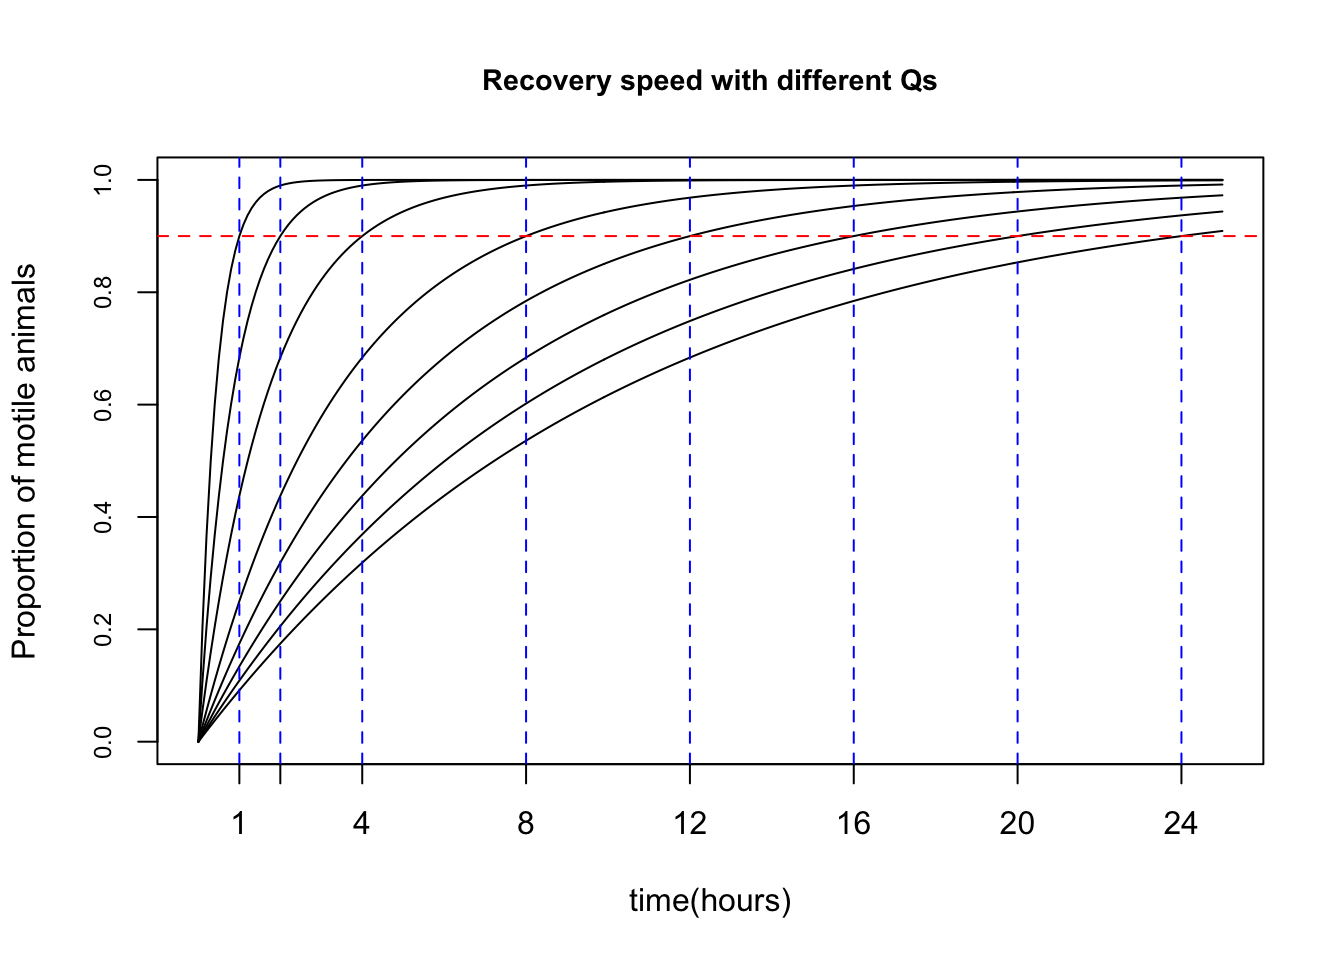
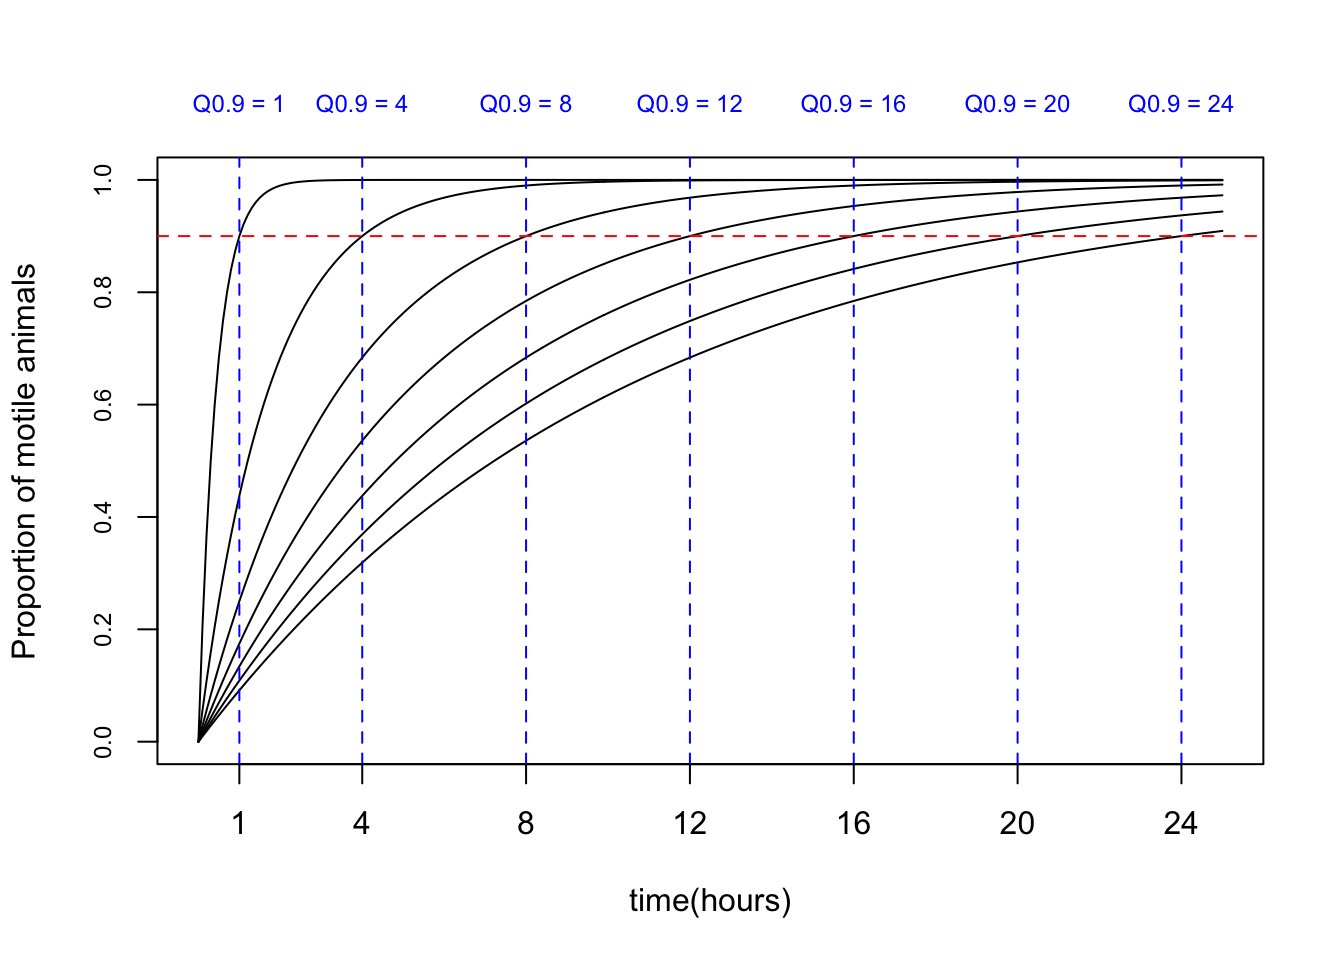
Changed part 1

diff --git a/docs/1.Anhydrobiosis_Index.html b/docs/1.Anhydrobiosis_Index.html
@@ -11,7 +11,7 @@
 
 <meta name="author" content="Matteo Vecchi" />
 
-<meta name="date" content="2022-04-28" />
+<meta name="date" content="2022-04-29" />
 
 <title>Anhydrobiosis Index</title>
 
@@ -390,7 +390,7 @@ div.tocify {
 
 <h1 class="title toc-ignore">Anhydrobiosis Index</h1>
 <h4 class="author">Matteo Vecchi</h4>
-<h4 class="date">2022-04-28</h4>
+<h4 class="date">2022-04-29</h4>
 
 </div>
 
@@ -398,7 +398,7 @@ div.tocify {
 <p>
 <button type="button" class="btn btn-default btn-workflowr btn-workflowr-report" data-toggle="collapse" data-target="#workflowr-report">
 <span class="glyphicon glyphicon-list" aria-hidden="true"></span>
-workflowr <span class="glyphicon glyphicon-ok text-success"
+workflowr <span class="glyphicon glyphicon-exclamation-sign text-danger"
 aria-hidden="true"></span>
 </button>
 </p>
@@ -409,8 +409,8 @@ aria-hidden="true"></span>
 </li>
 <li>
 <a data-toggle="tab" href="#checks"> Checks <span
-class="glyphicon glyphicon-ok text-success" aria-hidden="true"></span>
-</a>
+class="glyphicon glyphicon-exclamation-sign text-danger"
+aria-hidden="true"></span> </a>
 </li>
 <li>
 <a data-toggle="tab" href="#versions">Past versions</a>
@@ -419,13 +419,13 @@ class="glyphicon glyphicon-ok text-success" aria-hidden="true"></span>
 <div class="tab-content">
 <div id="summary" class="tab-pane fade in active">
 <p>
-<strong>Last updated:</strong> 2022-04-28
+<strong>Last updated:</strong> 2022-04-29
 </p>
 <p>
 <strong>Checks:</strong> <span
-class="glyphicon glyphicon-ok text-success" aria-hidden="true"></span> 7
+class="glyphicon glyphicon-ok text-success" aria-hidden="true"></span> 6
 <span class="glyphicon glyphicon-exclamation-sign text-danger"
-aria-hidden="true"></span> 0
+aria-hidden="true"></span> 1
 </p>
 <p>
 <strong>Knit directory:</strong> <code>Anhydrobiosis_index/</code> <span
@@ -448,18 +448,21 @@ versions</em> tab lists the development history.
 <div class="panel panel-default">
 <div class="panel-heading">
 <p class="panel-title">
-<a data-toggle="collapse" data-parent="#workflowr-checks" href="#strongRMarkdownfilestronguptodate">
-<span class="glyphicon glyphicon-ok text-success"
-aria-hidden="true"></span> <strong>R Markdown file:</strong> up-to-date
-</a>
+<a data-toggle="collapse" data-parent="#workflowr-checks" href="#strongRMarkdownfilestronguncommittedchanges">
+<span class="glyphicon glyphicon-exclamation-sign text-danger"
+aria-hidden="true"></span> <strong>R Markdown file:</strong> uncommitted
+changes </a>
 </p>
 </div>
-<div id="strongRMarkdownfilestronguptodate"
+<div id="strongRMarkdownfilestronguncommittedchanges"
 class="panel-collapse collapse">
 <div class="panel-body">
-<p>Great! Since the R Markdown file has been committed to the Git
-repository, you know the exact version of the code that produced these
-results.</p>
+<p>The R Markdown file has unstaged changes. To know which version of
+the R Markdown file created these results, you’ll want to first commit
+it to the Git repo. If you’re still working on the analysis, you can
+ignore this warning. When you’re finished, you can run
+<code>wflow_publish</code> to commit the R Markdown file and build the
+HTML.</p>
 </div>
 </div>
 </div>
@@ -550,15 +553,15 @@ project makes it easier to run your code on other machines.</p>
 <div class="panel panel-default">
 <div class="panel-heading">
 <p class="panel-title">
-<a data-toggle="collapse" data-parent="#workflowr-checks" href="#strongRepositoryversionstrongahrefhttpsgithubcomtardipedeanhydoindextree7675a6f5826bf7f0a507f88d3e2199276746e06dtargetblank7675a6fa">
+<a data-toggle="collapse" data-parent="#workflowr-checks" href="#strongRepositoryversionstrongahrefhttpsgithubcomtardipedeanhydoindextree78cf71bab071af0d82ca66eba1b3884bc144094ctargetblank78cf71ba">
 <span class="glyphicon glyphicon-ok text-success"
 aria-hidden="true"></span> <strong>Repository version:</strong>
-<a href="https://github.com/tardipede/anhydoindex/tree/7675a6f5826bf7f0a507f88d3e2199276746e06d" target="_blank">7675a6f</a>
+<a href="https://github.com/tardipede/anhydoindex/tree/78cf71bab071af0d82ca66eba1b3884bc144094c" target="_blank">78cf71b</a>
 </a>
 </p>
 </div>
 <div
[2 lines of base64/hex data omitted]
 class="panel-collapse collapse">
 <div class="panel-body">
 <p>
@@ -568,7 +571,7 @@ reproducibility.
 </p>
 <p>
 The results in this page were generated with repository version
-<a href="https://github.com/tardipede/anhydoindex/tree/7675a6f5826bf7f0a507f88d3e2199276746e06d" target="_blank">7675a6f</a>.
+<a href="https://github.com/tardipede/anhydoindex/tree/78cf71bab071af0d82ca66eba1b3884bc144094c" target="_blank">78cf71b</a>.
 See the <em>Past versions</em> tab to see a history of the changes made
 to the R Markdown and HTML files.
 </p>
@@ -589,6 +592,9 @@ Ignored files:
     Ignored:    analysis/.DS_Store
     Ignored:    code/.DS_Store
     Ignored:    data/.DS_Store
+
+Unstaged changes:
+    Modified:   analysis/1.Anhydrobiosis_Index.Rmd
 
 </code></pre>
 <p>
@@ -905,26 +911,29 @@ class="section level2">
 easy to interpret. I t is possible however, to reparametrize the
 function to a new parameter that describe the time needed to reach the
 motility of a certain proportion of the surviving animals.<br />
-The new parameter (that we will call <em>Q</em>), describe the time
-needed to reach a certain proportion (<em>pm</em>) proportion of animals
-to be motile: <span class="math display">\[ \lambda =
-\frac{-log(1-pm)}{Q} \]</span> If we set <em>pm</em> = 0.9, and
-<em>Q</em> is 12, it means that (among the surviving animals), 90% of
-them will recover their motility in 12 hours after rehydration. With
-<em>pm</em> set to 0.9, and assuming a survival of 100%, the different
-recovery speed would look like this:</p>
+The new parameter (that we will call <em>Q<sub>pm</sub></em>), describe
+the time needed to reach a certain proportion (<em>pm</em>) proportion
+of animals to be motile: <span class="math display">\[ \lambda =
+\frac{-log(1-pm)}{Q} \]</span> If we set <em>pm</em> = 0.9, and then
+<em>Q<sub>0.9</sub></em> is 12, it means that (among the surviving
+animals), 90% of them will recover their motility in 12 hours after
+rehydration. With <em>pm</em> set to 0.9, and assuming a survival of
+100%, the different recovery speed would look like this:</p>
 <pre class="r"><code>x = seq(0,25,0.1)
-plot(x=c(0,25), y=c(0,1), type=&quot;n&quot;, xlab=&quot;time(hours)&quot;,ylab=&quot;Proportion of motile animals&quot;, main = &quot;Recovery speed with different Qs&quot;, 
+plot(x=c(0,25), y=c(0,1), type=&quot;n&quot;, xlab=&quot;time(hours)&quot;,ylab=&quot;Proportion of motile animals&quot;, main = &quot;&quot;, 
      cex.axis=0.75, cex.main=0.9, ylim=c(0,1), xaxt=&quot;n&quot;)
-axis(side=1, at=c(1,2,4,8,12,16,20,24), labels = TRUE)
+axis(side=1, at=c(1,4,8,12,16,20,24), labels = TRUE)
 
-for(Q in c(1,2,4,8,12,16,20,24)){
+for(Q in c(1,4,8,12,16,20,24)){
   lambda = -log(1-0.9)/Q
   y = (1 - exp(-lambda*x))*1
   lines(x=x, y=y, type=&quot;l&quot;, col =&quot;black&quot;)
 }
 abline(h = 0.9, col=&quot;red&quot;, lty=2)
-abline(v = c(1,2,4,8,12,16,20,24), col=&quot;blue&quot;, lty=2)</code></pre>
+abline(v = c(1,4,8,12,16,20,24), col=&quot;blue&quot;, lty=2)
+axis(3, at = c(1,4,8,12,16,20,24), 
+     labels = paste0(&quot;Q0.9 = &quot;,c(1,4,8,12,16,20,24)), 
+     lwd = 0, col.axis = &quot;blue&quot;,cex.axis=0.75)</code></pre>
 <p><img src="figure/1.Anhydrobiosis_Index.Rmd/different%20Qs-1.png" width="672" style="display: block; margin: auto;" /></p>
 <p>
 <button type="button" class="btn btn-default btn-xs btn-workflowr btn-workflowr-fig" data-toggle="collapse" data-target="#fig-no-spaces-different-Qs-1">
@@ -965,21 +974,25 @@ Matteo Vecchi
 </div>
 <p>The same keeps whrn the survival is lower than 100%, the 90% quantile
 is calculated on the estimated survival. For example, with a final
-survival of 75%, the 90% quantile for <em>Q</em> is calculated as <span
-class="math inline">\(0.75*0.90 = 0.675\)</span>.</p>
+survival of 75%, the 90% quantile for <em>Q<sub>0.9</sub></em> is
+calculated as <span class="math inline">\(0.75*0.90 =
+0.675\)</span>.</p>
 <pre class="r"><code>x = seq(0,25,0.1)
-plot(x=c(0,25), y=c(0,1), type=&quot;n&quot;, xlab=&quot;time(hours)&quot;,ylab=&quot;Proportion of motile animals&quot;, main = &quot;Recovery speed with different Qs&quot;, 
+plot(x=c(0,25), y=c(0,1), type=&quot;n&quot;, xlab=&quot;time(hours)&quot;,ylab=&quot;Proportion of motile animals&quot;, main = &quot;&quot;, 
      cex.axis=0.75, cex.main=0.9, ylim=c(0,1), xaxt=&quot;n&quot;)
-axis(side=1, at=c(1,2,4,8,12,16,20,24), labels = TRUE)
+axis(side=1, at=c(1,4,8,12,16,20,24), labels = TRUE)
 
-for(Q in c(1,2,4,8,12,16,20,24)){
+for(Q in c(1,4,8,12,16,20,24)){
   lambda = -log(1-0.9)/Q
   y = (1 - exp(-lambda*x))*0.75
   lines(x=x, y=y, type=&quot;l&quot;, col =&quot;black&quot;)
 }
 abline(h=0.75, col=&quot;green&quot;)
 abline(h = 0.9*0.75, col=&quot;red&quot;, lty=2)
-abline(v = c(1,2,4,8,12,16,20,24), col=&quot;blue&quot;, lty=2)</code></pre>
+abline(v = c(1,4,8,12,16,20,24), col=&quot;blue&quot;, lty=2)
+axis(3, at = c(1,4,8,12,16,20,24), 
+     labels = paste0(&quot;Q0.9 = &quot;,c(1,4,8,12,16,20,24)), 
+     lwd = 0, col.axis = &quot;blue&quot;,cex.axis=0.75)</code></pre>
 <p><img src="figure/1.Anhydrobiosis_Index.Rmd/different%20QsP75-1.png" width="672" style="display: block; margin: auto;" /></p>
 <p>
 <button type="button" class="btn btn-default btn-xs btn-workflowr btn-workflowr-fig" data-toggle="collapse" data-target="#fig-no-spaces-different-QsP75-1">
@@ -1018,11 +1031,32 @@ Matteo Vecchi
 </table>
 </div>
 </div>
-<p>With this formulation, <em>Q</em> is independent from the overall
-survival probability and has an intuitive interpretation.</p>
+<p>With this formulation, <em>Q<sub>pm</sub></em> is independent from
+the overall survival probability and has an intuitive
+interpretation.</p>
 </div>
-<div id="binding-speed-between-0-and-1" class="section level2">
-<h2>Binding speed between 0 and 1</h2>
+<div id="priors-for-qpm-and-p-in-bayesian-estimation"
+class="section level2">
+<h2>Priors for Q<sub>pm</sub> and p in Bayesian estimation</h2>
+<p>As we are estimating the <em>p</em> and <em>Q<sub>pm</sub></em>
+parameters with Bayesian methods, we have to specify priors for them.
+The priors allow us to bind their possible value to only the onses that
+we could observe. The <em>p</em> parameter is a probability, so it must
+be bound between 0 and 1, whereas <em>Q<sub>pm</sub></em> is expressed
+in hours, so it can only take positive values.<br />
+For <em>p</em> we can set au uniform prior between 0 and 1. <span
+class="math display">\[ p \sim Dunif(0,1)\]</span> For
+<em>Q<sub>pm</sub></em> we will use instead a normal distribution woth
+mean 0 and a very high sd (100), truncated at 0 to kep only positive
+values. <span class="math display">\[ Q{pm} \sim N(0,100)T(0,)\]</span>
+This prior is very weakly informative, specially in the range of
+realistic values of <em>Q<sub>pm</sub></em>. According to previous
+studies on tardigrades showed that surviving animals usually recover
+their motility not after 24 hours.</p>
+<pre class="r"><code>par(mfrow=c(1,2))
+plot(density(rnorm(1000000,0,100)), xlim=c(0,500),xlab=&quot;Hours&quot;, main=&quot;Prior on Q - N(0,100)T(0,)&quot;)
+plot(density(rnorm(1000000,0,100)), xlim=c(0,48),xlab=&quot;Hours&quot;, main=&quot;Prior on Q - N(0,100)T(0,)&quot;)</code></pre>
+<p><img src="figure/1.Anhydrobiosis_Index.Rmd/priors%20on%20Q-1.png" width="768" style="display: block; margin: auto;" /></p>
 <div id="refs">
 
 </div>
@@ -1050,28 +1084,27 @@ attached base packages:
 [1] stats     graphics  grDevices utils     datasets  methods   base     
 
 other attached packages:
- [1] forcats_0.5.1   stringr_1.4.0   dplyr_1.0.8     purrr_0.3.4    
- [5] readr_2.1.2     tidyr_1.2.0     tibble_3.1.6    ggplot2_3.3.5  
- [9] tidyverse_1.3.1 workflowr_1.7.0
+[1] forcats_0.5.1   stringr_1.4.0   dplyr_1.0.8     purrr_0.3.4    
+[5] readr_2.1.2     tidyr_1.2.0     tibble_3.1.6    ggplot2_3.3.5  
+[9] tidyverse_1.3.1
 
 loaded via a namespace (and not attached):
- [1] Rcpp_1.0.8.3     lubridate_1.8.0  getPass_0.2-2    ps_1.6.0        
- [5] assertthat_0.2.1 rprojroot_2.0.3  digest_0.6.29    utf8_1.2.2      
- [9] R6_2.5.1         cellranger_1.1.0 backports_1.4.1  reprex_2.0.1    
-[13] evaluate_0.15    highr_0.9        httr_1.4.2       pillar_1.7.0    
-[17] rlang_1.0.2      readxl_1.4.0     rstudioapi_0.13  whisker_0.4     
-[21] callr_3.7.0      jquerylib_0.1.4  rmarkdown_2.13   munsell_0.5.0   
-[25] broom_0.7.12     compiler_4.1.3   httpuv_1.6.5     modelr_0.1.8    
-[29] xfun_0.30        pkgconfig_2.0.3  htmltools_0.5.2  tidyselect_1.1.2
-[33] fansi_1.0.3      withr_2.5.0      crayon_1.5.1     tzdb_0.3.0      
-[37] dbplyr_2.1.1     later_1.3.0      grid_4.1.3       jsonlite_1.8.0  
-[41] gtable_0.3.0     lifecycle_1.0.1  DBI_1.1.2        git2r_0.30.1    
-[45] magrittr_2.0.3   scales_1.2.0     cli_3.2.0        stringi_1.7.6   
-[49] farver_2.1.0     fs_1.5.2         promises_1.2.0.1 xml2_1.3.3      
-[53] bslib_0.3.1      ellipsis_0.3.2   generics_0.1.2   vctrs_0.4.0     
-[57] tools_4.1.3      glue_1.6.2       hms_1.1.1        processx_3.5.3  
-[61] fastmap_1.1.0    yaml_2.3.5       colorspace_2.0-3 rvest_1.0.2     
-[65] knitr_1.38       haven_2.4.3      sass_0.4.1      </code></pre>
+ [1] Rcpp_1.0.8.3     lubridate_1.8.0  assertthat_0.2.1 rprojroot_2.0.3 
+ [5] digest_0.6.29    utf8_1.2.2       R6_2.5.1         cellranger_1.1.0
+ [9] backports_1.4.1  reprex_2.0.1     evaluate_0.15    highr_0.9       
+[13] httr_1.4.2       pillar_1.7.0     rlang_1.0.2      readxl_1.4.0    
+[17] rstudioapi_0.13  whisker_0.4      jquerylib_0.1.4  rmarkdown_2.13  
+[21] munsell_0.5.0    broom_0.7.12     compiler_4.1.3   httpuv_1.6.5    
+[25] modelr_0.1.8     xfun_0.30        pkgconfig_2.0.3  htmltools_0.5.2 
+[29] tidyselect_1.1.2 workflowr_1.7.0  fansi_1.0.3      crayon_1.5.1    
+[33] tzdb_0.3.0       dbplyr_2.1.1     withr_2.5.0      later_1.3.0     
+[37] grid_4.1.3       jsonlite_1.8.0   gtable_0.3.0     lifecycle_1.0.1 
+[41] DBI_1.1.2        git2r_0.30.1     magrittr_2.0.3   scales_1.2.0    
+[45] cli_3.2.0        stringi_1.7.6    farver_2.1.0     fs_1.5.2        
+[49] promises_1.2.0.1 xml2_1.3.3       bslib_0.3.1      ellipsis_0.3.2  
+[53] generics_0.1.2   vctrs_0.4.0      tools_4.1.3      glue_1.6.2      
+[57] hms_1.1.1        fastmap_1.1.0    yaml_2.3.5       colorspace_2.0-3
+[61] rvest_1.0.2      knitr_1.38       haven_2.4.3      sass_0.4.1      </code></pre>
 </div>
 </div>
 
